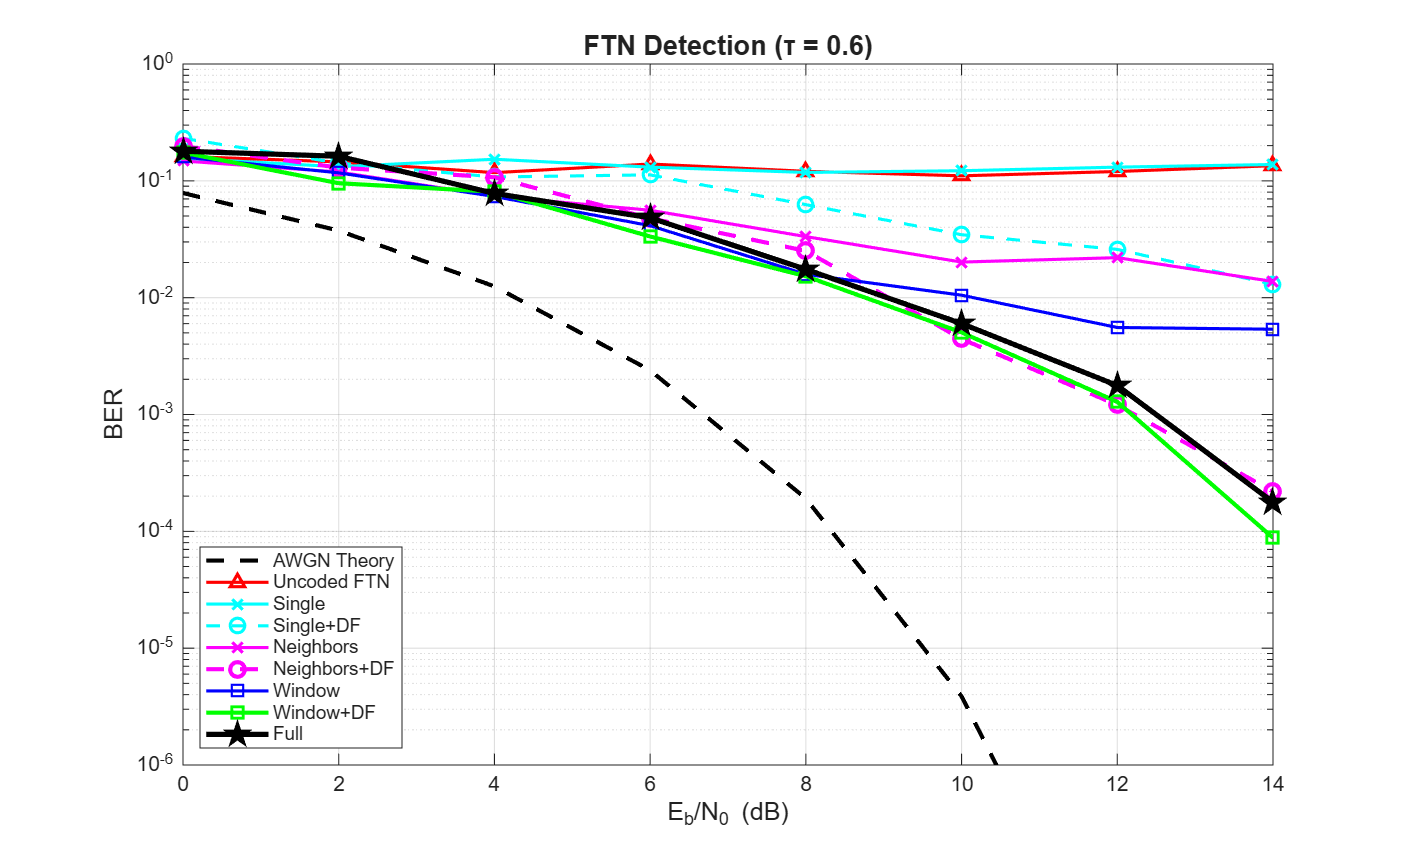
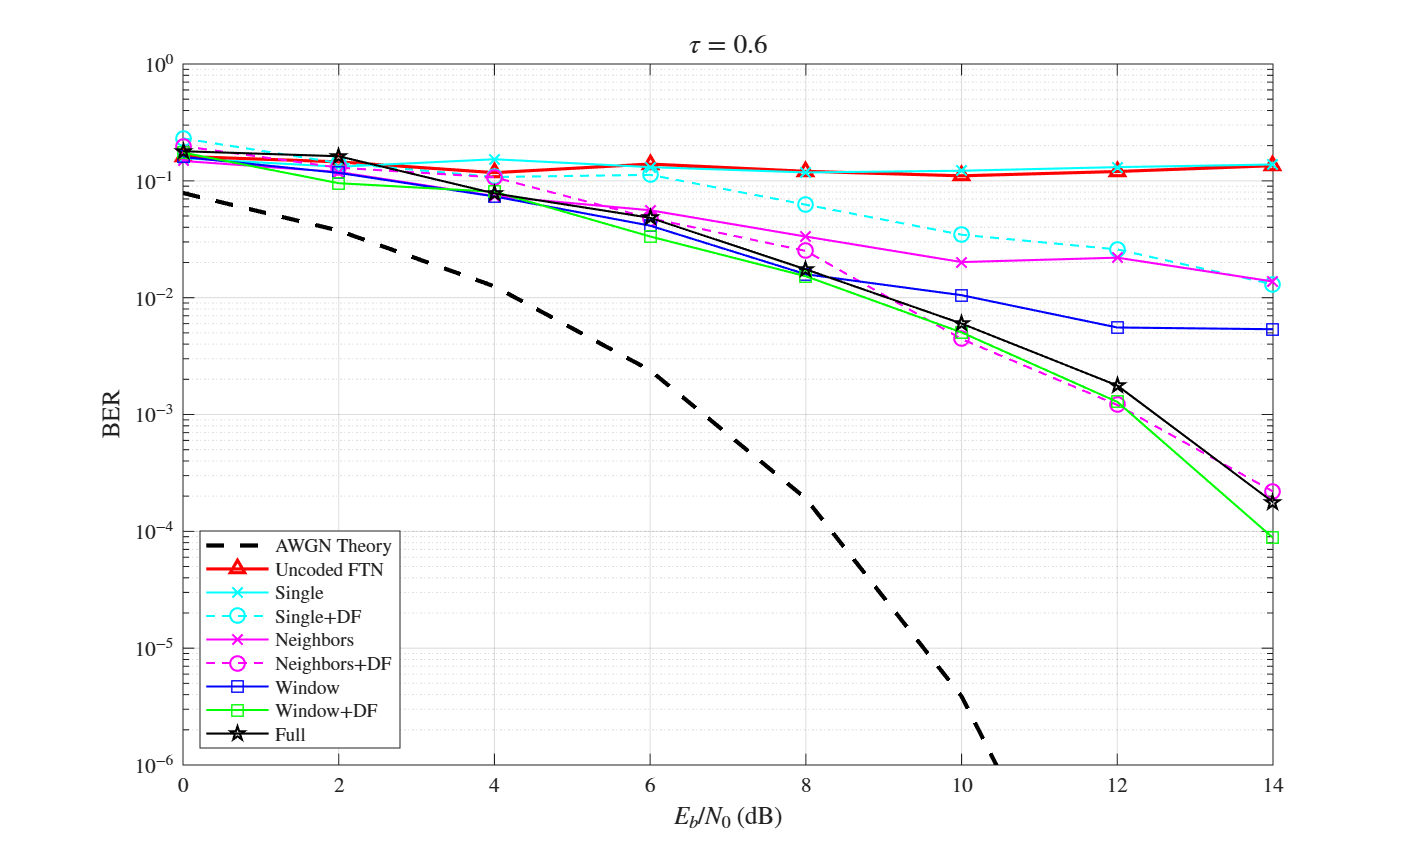
results

diff --git a/plot_comparison.m b/plot_comparison.m
@@ -1,3 +1,7 @@
+set(groot,'defaultAxesTickLabelInterpreter','latex');
+set(groot,'defaulttextinterpreter','latex');
+set(groot,'defaultLegendInterpreter','latex');
+
 clear; clc; close all;
 
 [files, path] = uigetfile('mat/comparison/*_results.mat', 'MultiSelect', 'on');
@@ -10,10 +14,11 @@ fprintf('=== %d dosya seçildi ===\n\n', length(files));
 colors = {'c', 'c', 'm', 'm', 'b', 'g', 'k'};
 markers = {'x', 'o', 'x', 'o', 's', 's', 'p'};
 lines = {'-', '--', '-', '--', '-', '-', '-'};
-linewidths = [1.5, 1.5, 1.5, 2, 1.5, 2, 2.5];
+% linewidths = [1.5, 1.5, 1.5, 2, 1.5, 2, 2.5];
+linewidths = [1 1 1 1 1 1 1];
 
 y_lim = [1e-6, 1];
-x_lim = [0, 14];
+% x_lim = [0, 14];
 
 for f = 1:length(files)
     load(fullfile(path, files{f}));
@@ -32,11 +37,11 @@ for f = 1:length(files)
     end
     
     grid on;
-    xlabel('E_b/N_0 (dB)', 'FontSize', 12);
+    xlabel('$E_b/N_0$ (dB)', 'FontSize', 12);
     ylabel('BER', 'FontSize', 12);
     legend('Location', 'southwest', 'FontSize', 9);
-    title(sprintf('FTN Detection (τ = %.1f)', tau), 'FontSize', 13);
-    xlim(x_lim);
+    title(sprintf('$\\tau = %.1f$', tau), 'FontSize', 13);
+    % xlim(x_lim);
     ylim(y_lim);
     
     % Export

diff --git a/test_comparison_multiple.m b/test_comparison_multiple.m
@@ -10,15 +10,15 @@ for f = 1:length(files)
     load(fullfile(path, files{f}));
     fprintf('\n========== τ=%.1f (%d/%d) ==========\n\n', tau, f, length(files));
     
-    SNR_range = 0:2:14;
+    SNR_range = 0:2:10;
     n_snr = length(SNR_range);
     
     ber = zeros(7, n_snr);
     ber_uncoded = zeros(1, n_snr);
     ber_theory = qfunc(sqrt(2 * 10.^(SNR_range/10)));
     
-    min_err = 100;
-    max_bits = 1e6;
+    min_err = 20;
+    max_bits = 5e5;
     
     models = {net1, net2, net3, net4, net5, net6, net7};
     names = {'Single', 'Single+DF', 'Neighbors', 'Neighbors+DF', 'Window', 'Window+DF', 'Full'};
